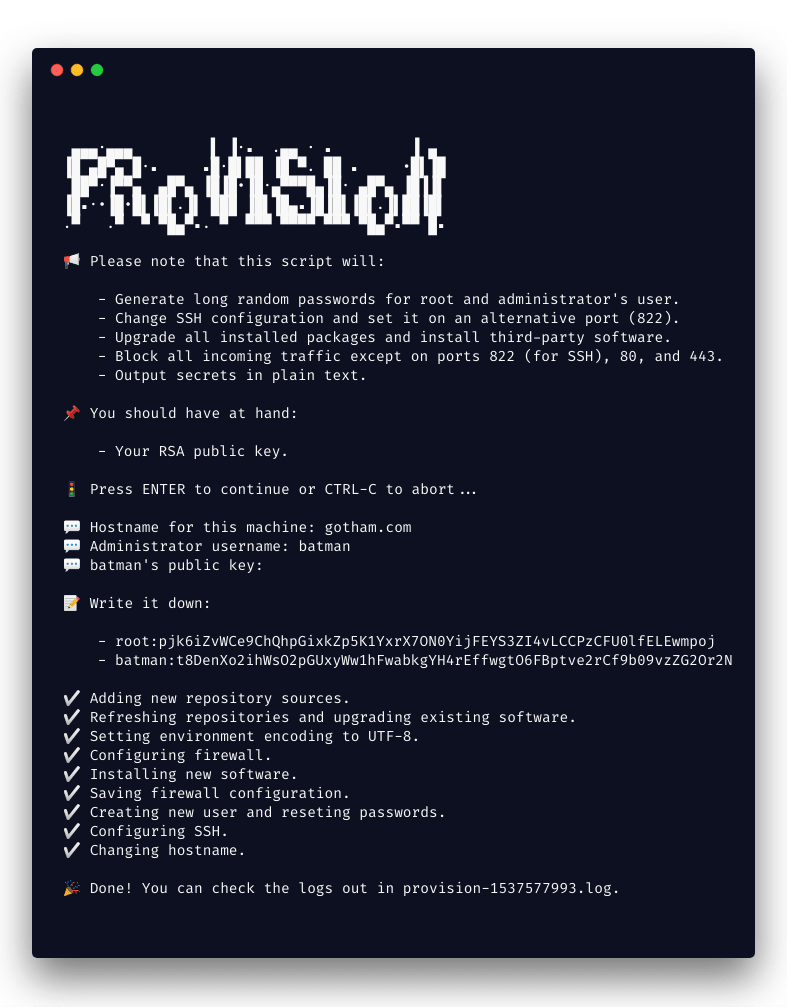
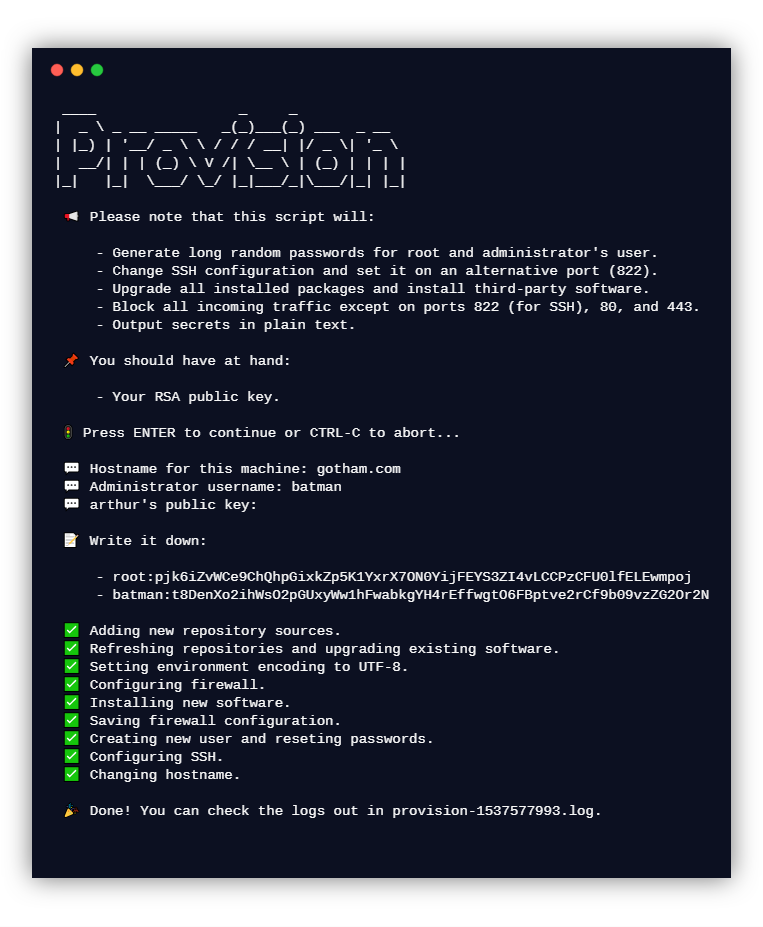
Update sample picture

Changed region(s): [[0.0603, 0.1208, 0.9345, 0.9061], [0.0301, 0.9364, 0.9948, 0.9968], [0.0301, 0.0302, 0.9646, 0.0906]]

diff --git a/README.md b/README.md
@@ -1,4 +1,4 @@
-<p align="center"><img src="sample.png" height="1007" width="787"></p>
+<p align="center"><img src="sample.png" height="927" width="763"></p>
 
 ## Warning
 
